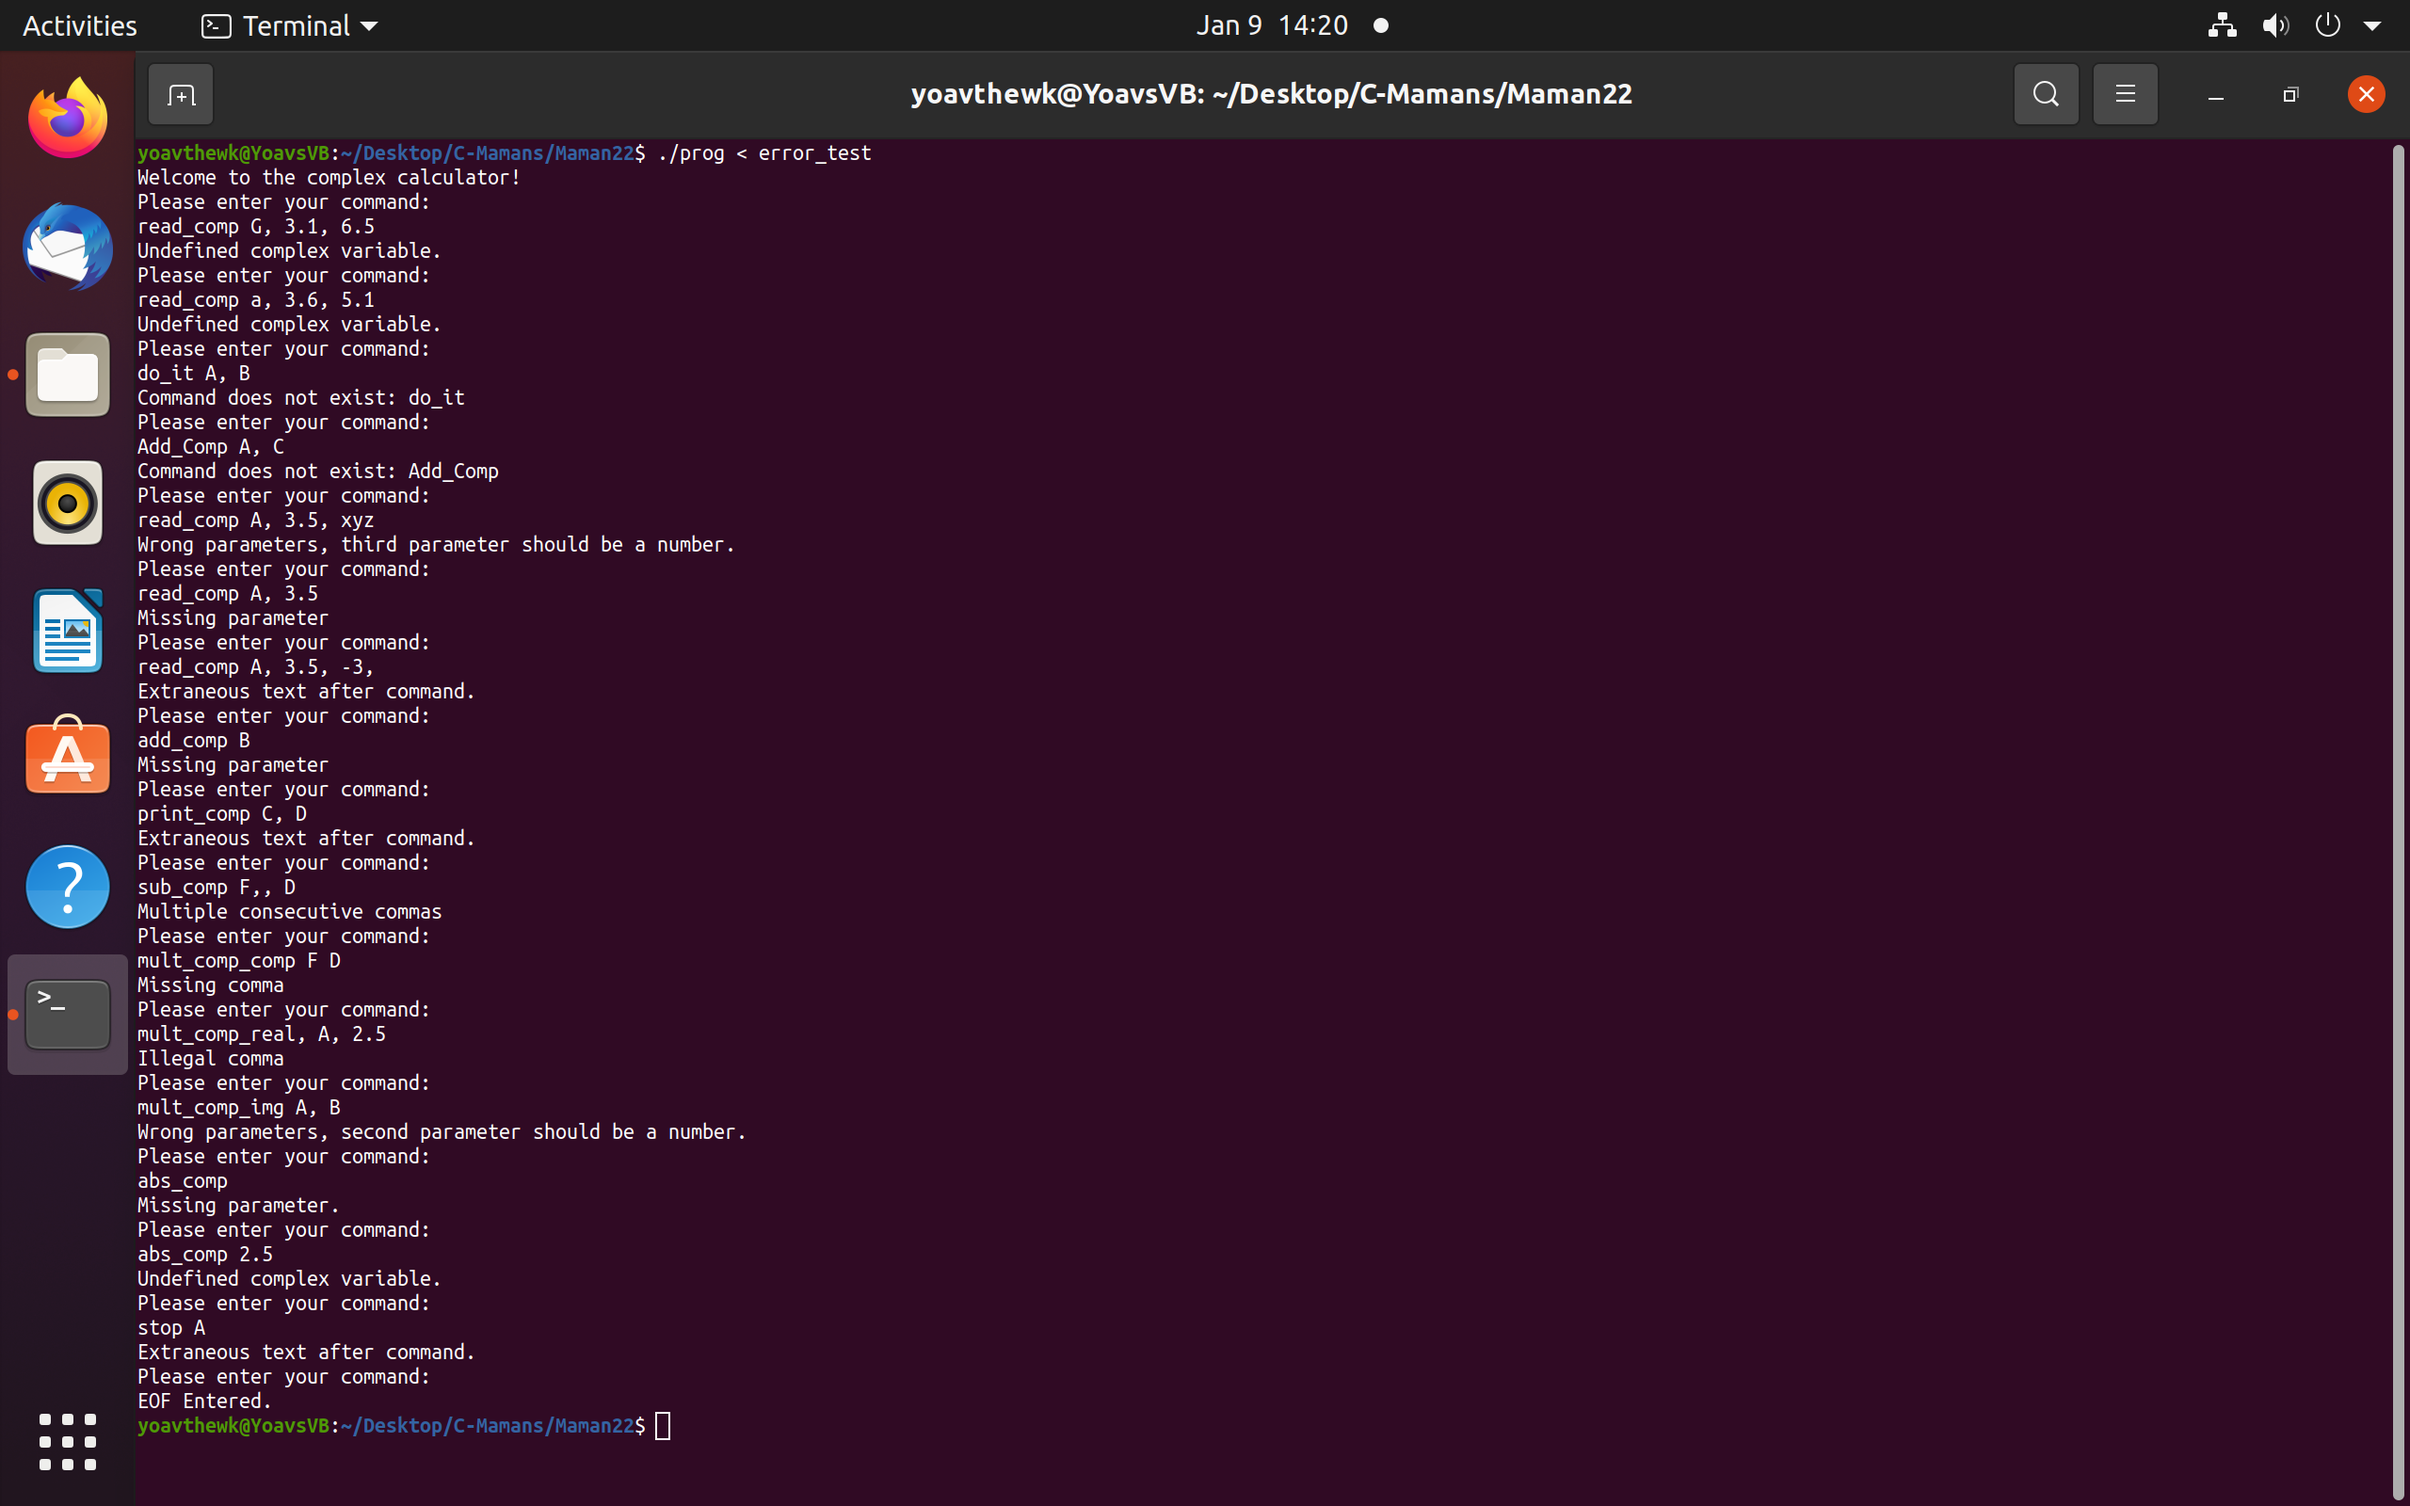
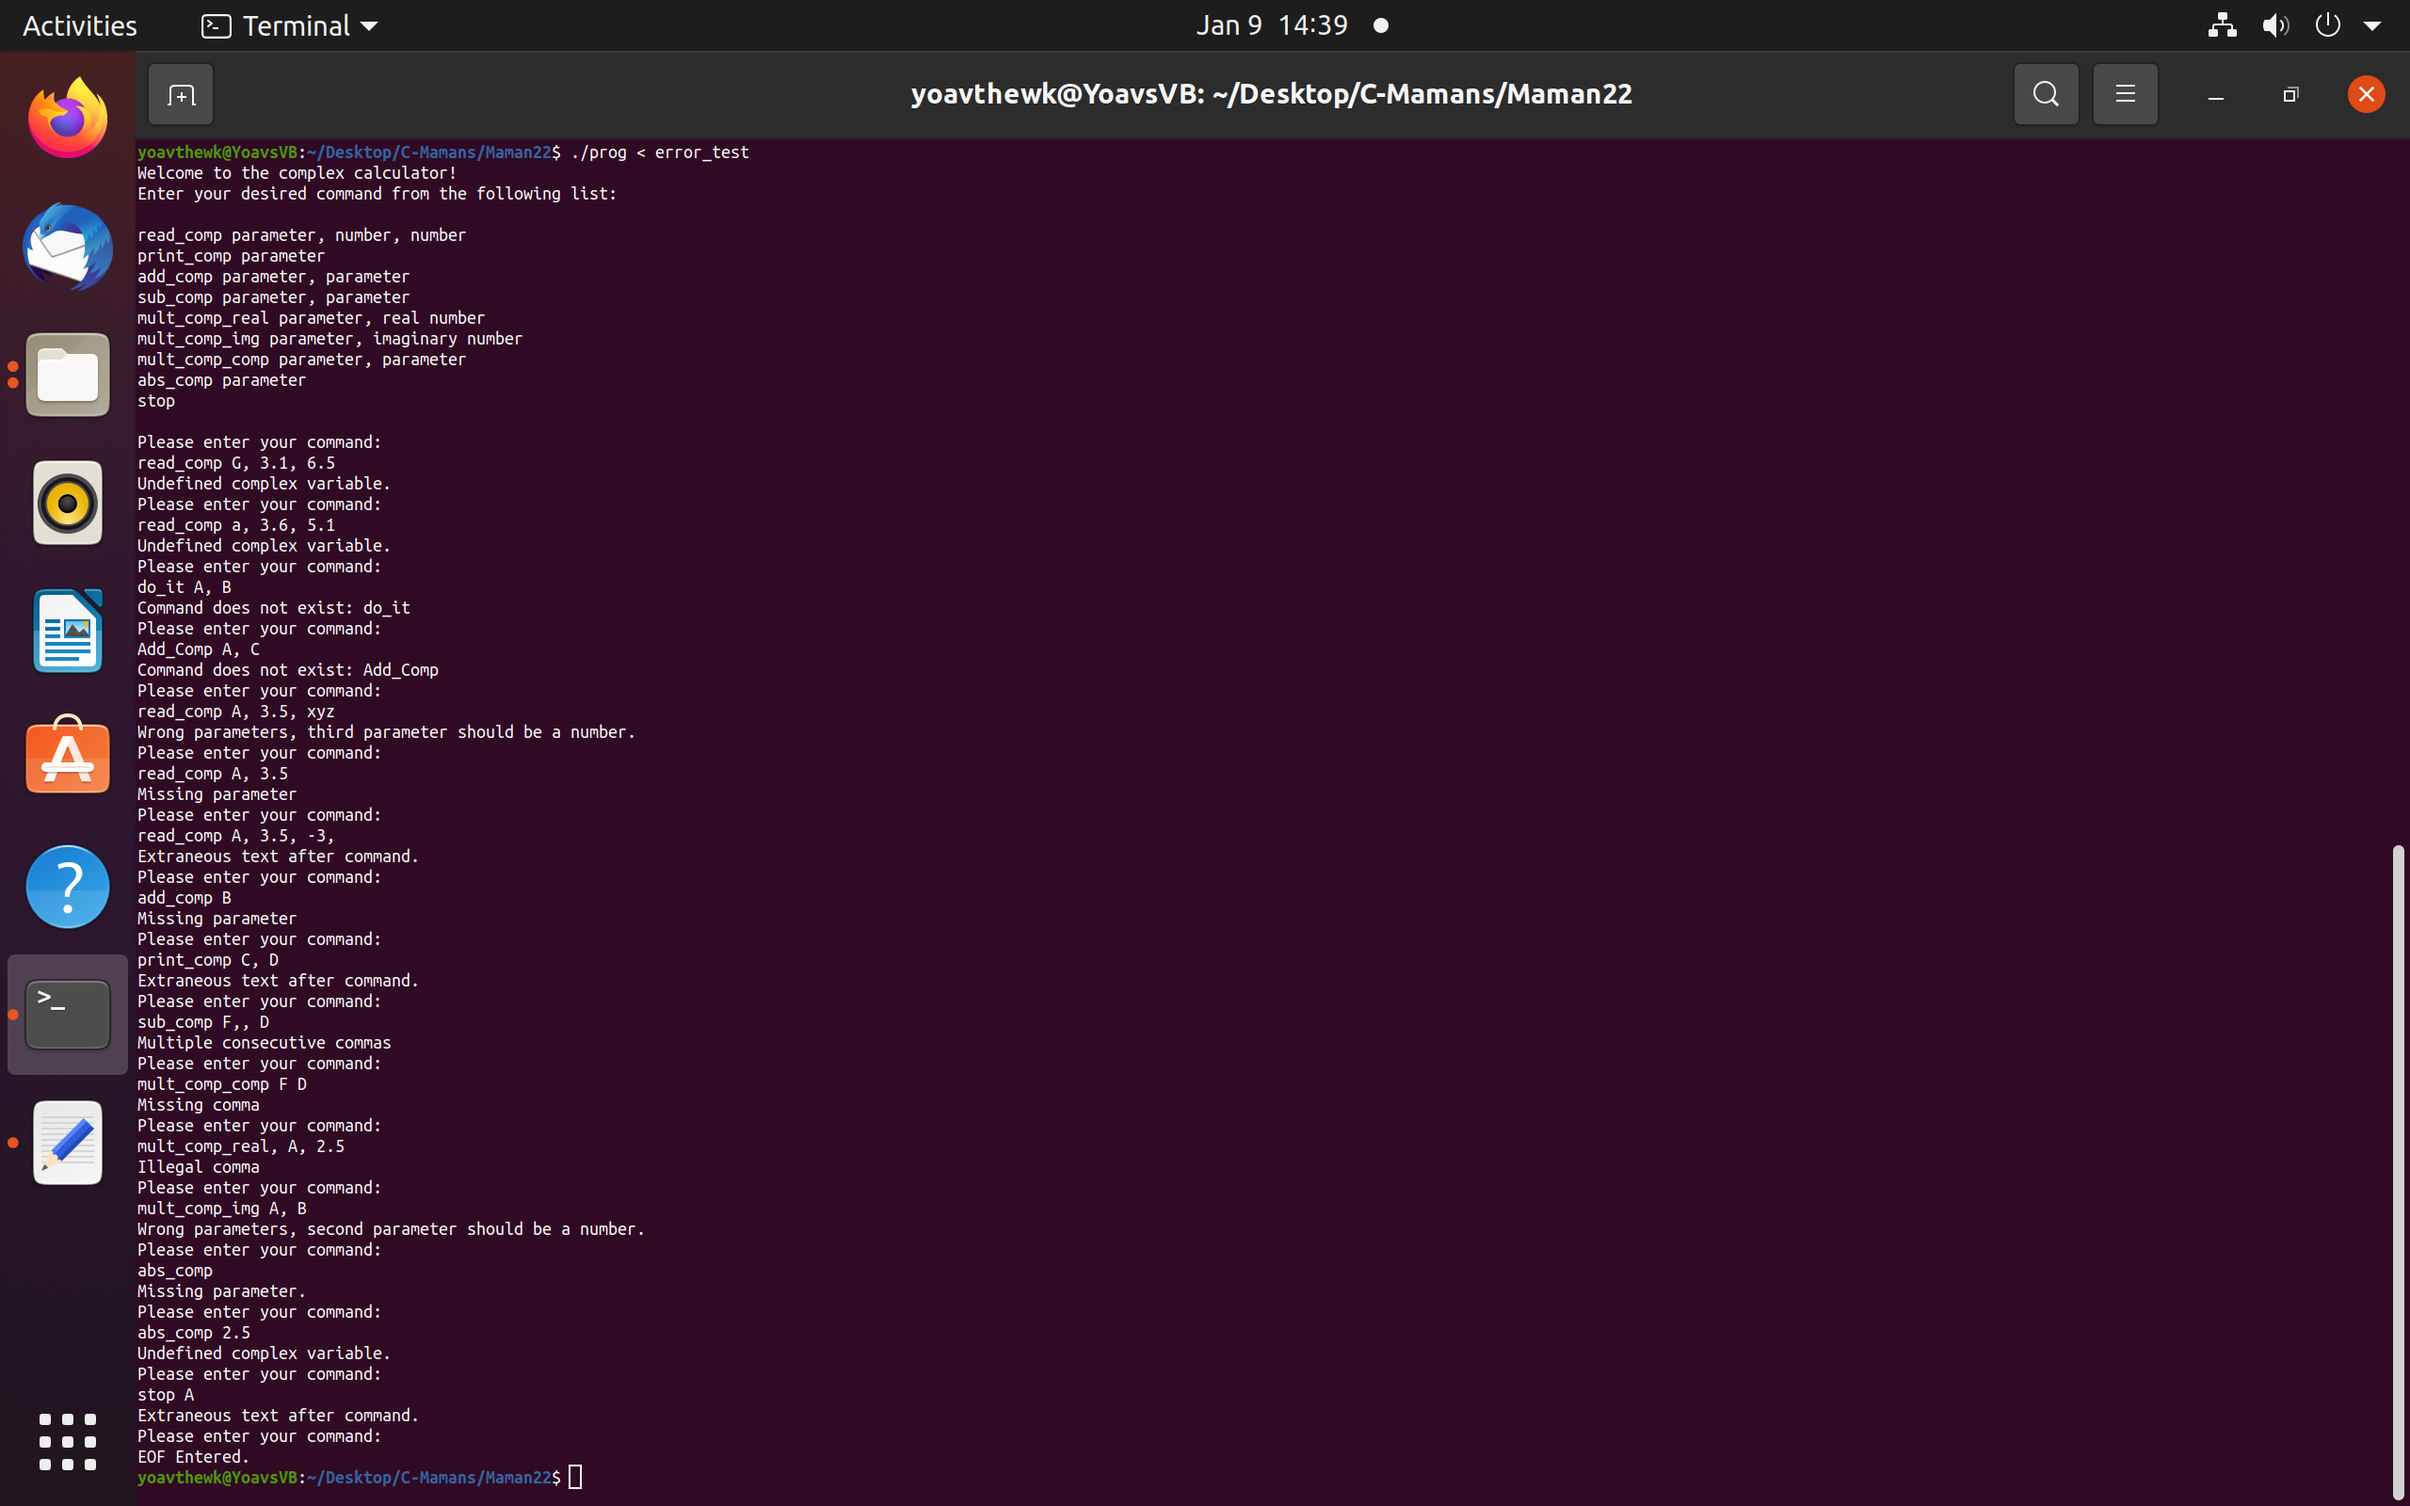
added prints

Changed region(s): [[0.0, 0.0938, 0.3125, 1.0], [0.9688, 0.0938, 1.0, 1.0]]

diff --git a/Maman22/mycomp.c b/Maman22/mycomp.c
@@ -29,7 +29,19 @@ int main(){
 		params[i].im = 0;
 	}
 	
+	/* Printing the menu */
 	printf("Welcome to the complex calculator!\n");
+	printf("Enter your desired command from the following list:\n\n");
+	printf("read_comp parameter, number, number\n");
+	printf("print_comp parameter\n");
+	printf("add_comp parameter, parameter\n");
+	printf("sub_comp parameter, parameter\n");
+	printf("mult_comp_real parameter, real number\n");
+	printf("mult_comp_img parameter, imaginary number\n");
+	printf("mult_comp_comp parameter, parameter\n");
+	printf("abs_comp parameter\n");
+	printf("stop\n\n");
+	
 	FOREVER
 		executeCommand(params);
 	
@@ -61,6 +73,8 @@ void executeCommand(struct complex params[]){
 	
 	printf("%s\n", input);
 	
+	if(isWhiteSpaceOnly(input)) return;
+	
 	for(; isalpha(input[i]) || input[i] == '_'; i++){
 		command[j++] = input[i]; /* get each character of the command */ 
 	}
@@ -80,7 +94,20 @@ void executeCommand(struct complex params[]){
 	
 	/* if it is, we call the function that executes the command */
 	else (*(cmd[i].func))(params, input);
-	
+}
+
+/*
+	This function checks if a line is only whitespaces.
+	parameters:
+	input - the input line.
+*/
+int isWhiteSpaceOnly(char input[]){
+	int i = 0;
+	while(input[i++] != 0){
+		if(!isspace(input[i - 1]))
+			return 0;
+	}
+	return 1;
 }
 
 

diff --git a/Maman22/exec.h b/Maman22/exec.h
@@ -107,3 +107,10 @@ void alertError(char errorMsg[]);
 	params - the complex parameters.
 */
 void executeCommand(struct complex params[]);
+
+/*
+	This function checks if a line is only whitespaces.
+	parameters:
+	input - the input line.
+*/
+int isWhiteSpaceOnly(char input[]);
